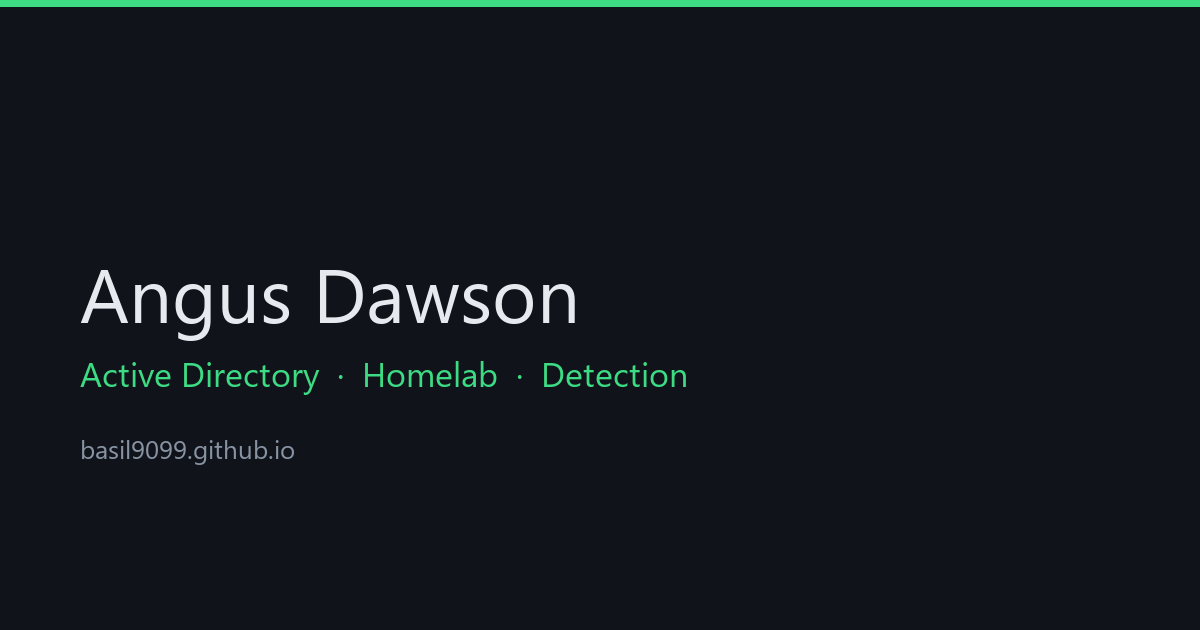
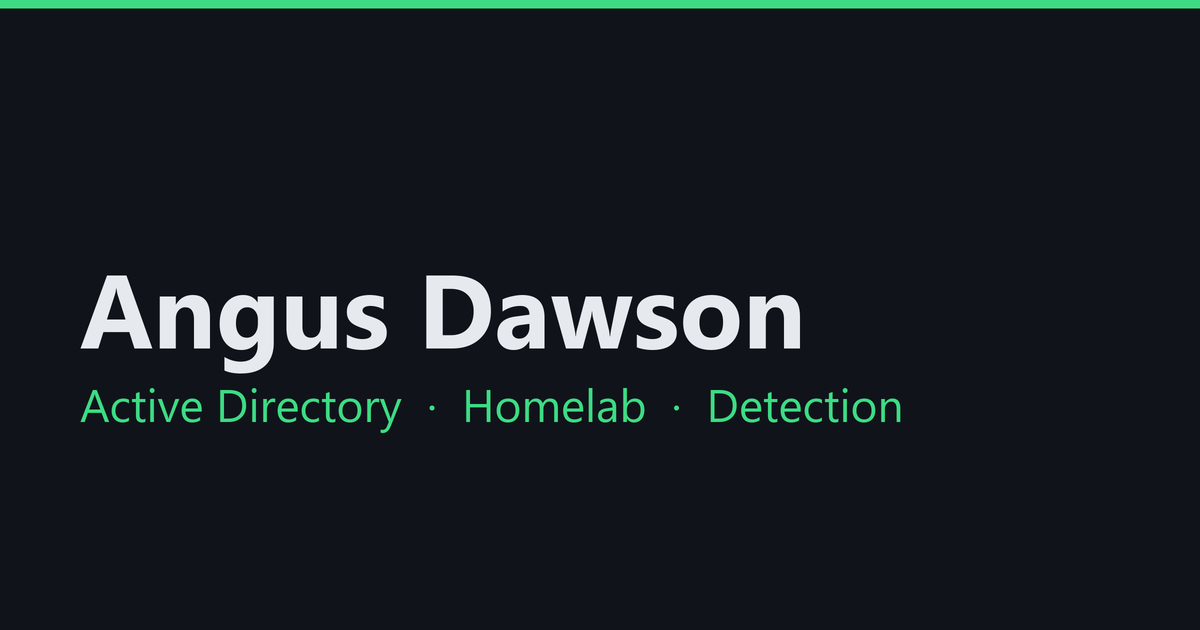
Lead the social card with the author's name
og:title read 'Homelab & CTF Writeups', a generic category, on the only
contact route the site offers. Also sharpens the card image for
LinkedIn's in-feed downscale.

Changed region(s): [[0.0617, 0.4222, 0.6783, 0.754], [0.0, 0.0, 1.0, 0.0302], [0.5858, 0.6032, 0.7708, 0.6937]]

diff --git a/scripts/make-og-image.py b/scripts/make-og-image.py
@@ -1,22 +1,51 @@
+"""Generate the Open Graph share card at static/images/og-default.png.
+
+LinkedIn renders the card around 520px wide in-feed, a 0.43x reduction from
+1200px. Two consequences drive the design here:
+
+  * Type is sized so it survives that reduction. Anything under ~30px at
+    1200px wide lands under 13px in the feed and stops being readable.
+  * The card is rendered at 2x and downsampled with LANCZOS. Rasterising
+    large and shrinking gives noticeably crisper glyph edges than drawing
+    at final size, which is what made the first version look soft.
+
+The site URL is deliberately absent: LinkedIn prints the domain beneath the
+card already, so repeating it inside the image wastes space and adds a line
+too small to read.
+"""
+
 from PIL import Image, ImageDraw, ImageFont
 
-W, H = 1200, 630
-img = Image.new("RGB", (W, H), "#10141a")
-d = ImageDraw.Draw(img)
+SCALE = 2  # supersample, then downsample for crisper text
+W, H = 1200 * SCALE, 630 * SCALE
 
-def font(size):
-    for path in ("C:/Windows/Fonts/segoeui.ttf", "C:/Windows/Fonts/arial.ttf"):
+BG = "#10141a"
+ACCENT = "#3ddc84"
+PRIMARY = "#e6e9ee"
+
+BOLD = ("C:/Windows/Fonts/segoeuib.ttf", "C:/Windows/Fonts/arialbd.ttf")
+REGULAR = ("C:/Windows/Fonts/segoeui.ttf", "C:/Windows/Fonts/arial.ttf")
+
+
+def font(paths, size):
+    for path in paths:
         try:
-            return ImageFont.truetype(path, size)
+            return ImageFont.truetype(path, size * SCALE)
         except OSError:
             continue
     return ImageFont.load_default()
 
-d.rectangle([0, 0, W, 6], fill="#3ddc84")
-d.text((80, 240), "Angus Dawson", font=font(76), fill="#e6e9ee")
-d.text((80, 350), "Active Directory  ·  Homelab  ·  Detection",
-       font=font(34), fill="#3ddc84")
-d.text((80, 430), "basil9099.github.io", font=font(26), fill="#8792a3")
 
-img.save("static/images/og-default.png")
+img = Image.new("RGB", (W, H), BG)
+d = ImageDraw.Draw(img)
+
+d.rectangle([0, 0, W, 8 * SCALE], fill=ACCENT)
+
+d.text((80 * SCALE, 236 * SCALE), "Angus Dawson",
+       font=font(BOLD, 104), fill=PRIMARY)
+d.text((80 * SCALE, 372 * SCALE), "Active Directory  ·  Homelab  ·  Detection",
+       font=font(REGULAR, 46), fill=ACCENT)
+
+img = img.resize((1200, 630), Image.LANCZOS)
+img.save("static/images/og-default.png", optimize=True)
 print("wrote static/images/og-default.png")

diff --git a/content/_index.md b/content/_index.md
@@ -1,5 +1,5 @@
 ---
-title: "Homelab & CTF Writeups"
+title: "Angus Dawson — Homelab & CTF Writeups"
 description: "Active Directory attack paths, homelab builds, and detection engineering — CTF writeups and lab notes by Angus Dawson, Sydney."
 ---
 
